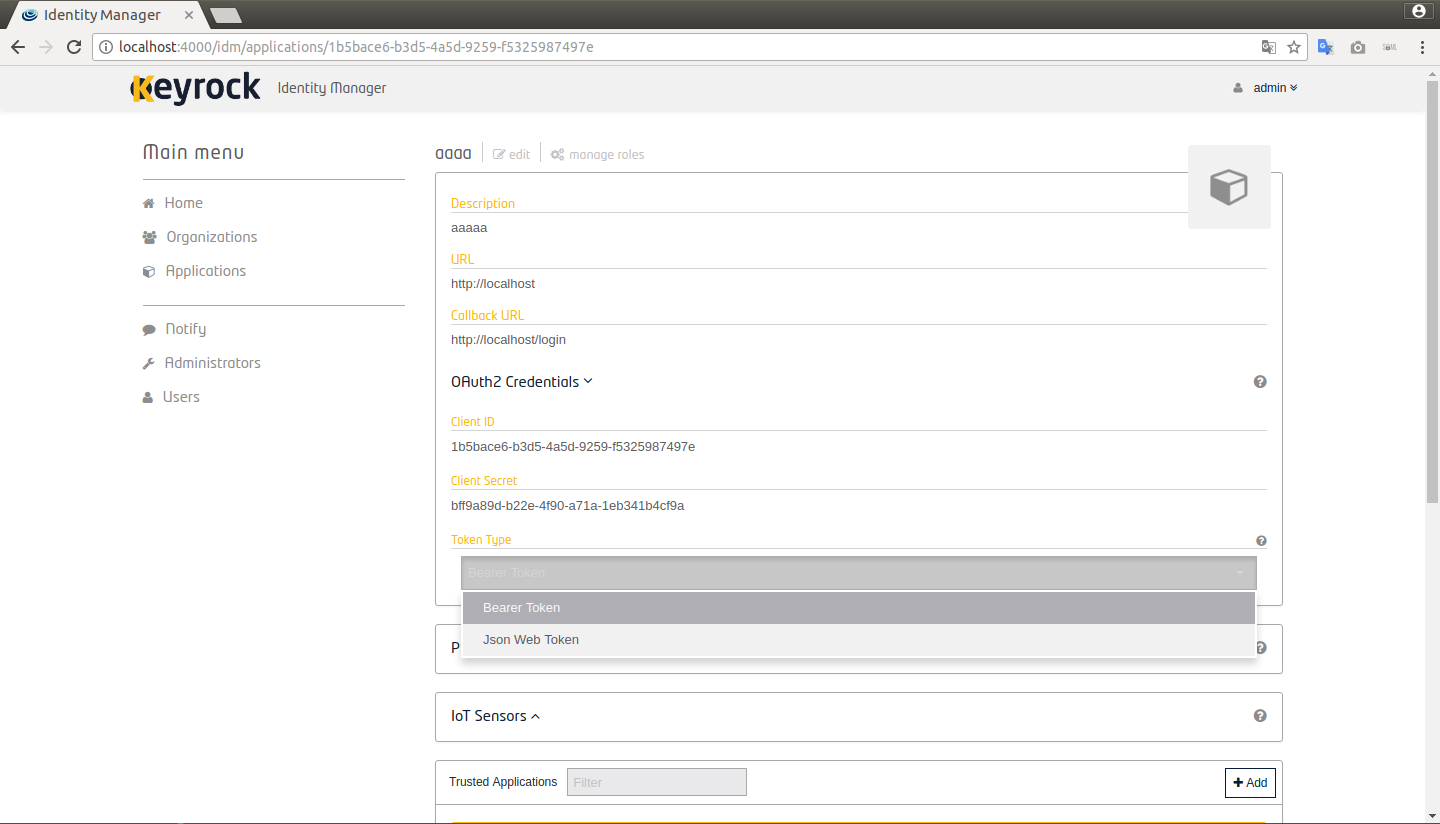
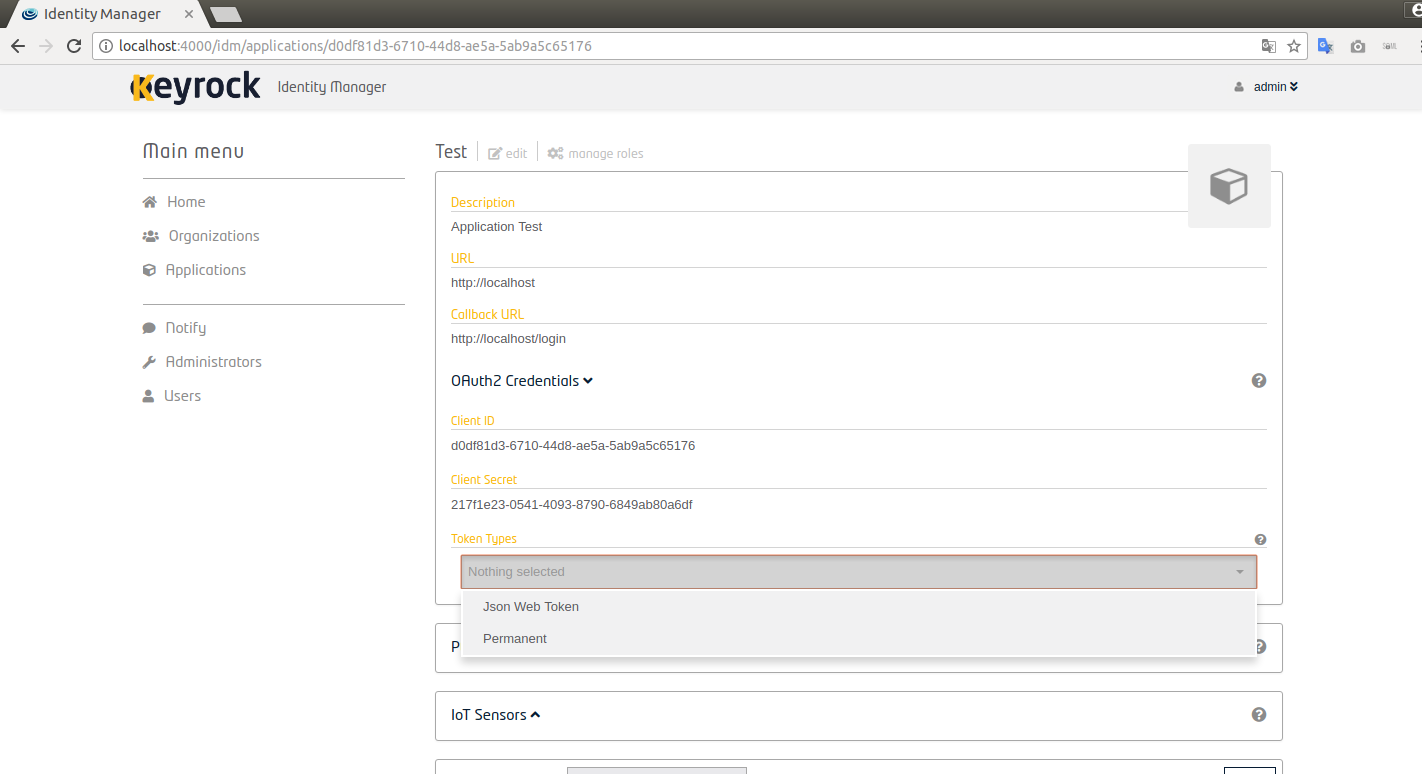
Docu Permanent and Revoke token

diff --git a/doc/api.md b/doc/api.md
@@ -1,3 +1,4 @@
+
 # API OVERVIEW
 
 + [Idm API](#def-apiIdm)
@@ -7,27 +8,31 @@
     - [OAuth2 Authentication](#def-oauth2Auth)
         - [Authorization Code Grant](#def-codeGrant)
             - [Authorization Request](#def-codeGrantAuthReq)
+            - [Authorization Request For Permanent Token](#def-codeGrantAuthPermReq)
             - [Authorization Response](#def-codeGrantAuthRes)
             - [Access Token Request](#def-codeGrantTokReq)
             - [Access Token Response](#def-codeGrantTokRes)
         - [Implicit Grant](#def-implicitGrant)
             - [Authorization Request](#def-impliGrantAuthReq)
+            - [Authorization Request For Permanent Token](#def-implicitGrantAuthPermReq)
             - [Access Token Response](#def-impliGrantTokRes)
         - [Resource Owner Password Credentials Grant](#def-passwordGrant)
             - [Access Token Request](#def-passGrantTokReq)
+            - [Permanent Access Token Request](#def-passGrantTokPermReq)
             - [Access Token Response](#def-passGrantTokRes)
         - [Client Credentials Grant](#def-credentialsGrant)
             - [Access Token Request](#def-credGrantTokReq)
+            - [Permanent Access Token Request](#def-credGrantTokPermReq) 
             - [Access Token Response](#def-credGrantTokRes)
         - [Refresh Token Grant](#def-refreshToken)
             - [Access Token Request](#def-refreseGrantTokReq)
+            - [Permanent Token Request](#def-refreseGrantTokPermReq)
             - [Access Token Response](#def-refreshGrantTokRes)
         - [Validate Access Tokens](#def-validate-tokens)
             - [Get user information and roles](#def-getUserInfo)
             - [Validate authorization](#def-validate-auth)
-        - [Select OAuth Access Token](#def-select-token)
-            - [Get user information and roles](#def-getUserInfo)
-            - [Validate authorization](#def-validate-auth)
+        - [Revoke Token](#def-revoke-token)
+        - [Select Token Type](#def-select-token)
             - [Access JWT Request](#def-JWTRequest)
             - [Access JWT Response](#def-JWTResponse)
 
@@ -115,6 +120,13 @@ match the `Callback URL` attribute provided to the IdM within the
 application registration. `state` is optional and for internal use of
 you application, if needed.
 
+<a name="def-codeGrantAuthPermReq"></a>
+#### Authorization Request For Permanent Token
+~~~
+GET /oauth2/authorize?response_type=code&client_id=1&state=xyz
+&redirect_uri=https%3A%2F%2Fclient%2Eexample%2Ecom%2Fcallback_url&scope=permanent HTTP/1.1
+Host: idm-portal
+~~~
 <a name="def-codeGrantAuthRes"></a>
 #### Authorization Response
 
@@ -176,6 +188,14 @@ The `redirect_uri` attribute must match the `Callback URL` attribute provided to
 
 `state` is optional and for internal use of you application, if needed.
 
+<a name="def-implicitGrantAuthPermReq"></a>
+#### Authorization Request For Permanent Token
+~~~
+GET /oauth2/authorize?response_type=token&client_id=1&state=xyz
+&redirect_uri=https%3A%2F%2Fclient%2Eexample%2Ecom%2Fcallback_url&scope=permanent HTTP/1.1
+Host: idm-portal
+~~~
+
 <a name="def-impliGrantTokRes"></a>
 #### Access Token Response
 ~~~
@@ -200,6 +220,18 @@ Content-Type: application/x-www-form-urlencoded
 
 grant_type=password&username=demo&password=123
 ~~~
+
+<a name="def-passGrantTokPermReq"></a>
+#### Permanent Token Request
+~~~
+POST /oauth2/token HTTP/1.1
+Host: idm-portal
+Authorization: Basic czZCaGRSa3F0MzpnWDFmQmF0M2JW
+Content-Type: application/x-www-form-urlencoded
+
+grant_type=password&username=demo&password=123&scope=permanent
+~~~
+
 <a name="def-passGrantTokRes"></a>
 #### Access Token Response
 See [Authorization Code Grant](#def-codeGrantTokRes)
@@ -219,6 +251,17 @@ Authorization: Basic czZCaGRSa3F0MzpnWDFmQmF0M2JW
 Content-Type: application/x-www-form-urlencoded
 
 grant_type=refresh_token&refresh_token=tGzv3JOkF0XG5Qx2TlKWIA
+~~~
+
+<a name="def-refreshGrantTokPermReq"></a>
+#### Permanent Token Request
+~~~
+POST /oauth2/token HTTP/1.1
+Host: idm-portal
+Authorization: Basic czZCaGRSa3F0MzpnWDFmQmF0M2JW
+Content-Type: application/x-www-form-urlencoded
+
+grant_type=refresh_token&refresh_token=tGzv3JOkF0XG5Qx2TlKWIA&scope=permanent
 ~~~
 
 <a name="def-refreshGrantTokRes"></a>
@@ -244,6 +287,17 @@ Content-Type: application/x-www-form-urlencoded
 grant_type=client_credentials
 ~~~
 
+<a name="def-credGrantTokPermReq"></a>
+#### Permanent Token Request
+~~~
+POST /oauth2/token HTTP/1.1
+Host: idm-portal
+Authorization: Basic czZCaGRSa3F0MzpnWDFmQmF0M2JW
+Content-Type: application/x-www-form-urlencoded
+
+grant_type=client_credentials&scope=permanent
+~~~
+
 <a name="def-credGrantTokRes"></a>
 #### Access Token Response
 
@@ -260,6 +314,21 @@ Once you have created an OAuth2.0 Access Token associated to a user, you can val
 > because of the nature of this grant. You can still use this endpoint
 > to validate the token, but the JSON (if the token is valid) will be
 > empty.
+
+<a name="def-revoke-token"></a>
+### Revoke Token
+In order to revoke a token, the following request should be send:
+~~~
+POST /oauth2/revoke HTTP/1.1
+Host: idm-portal
+Authorization: Basic czZCaGRSa3F0MzpnWDFmQmF0M2JW  
+Content-Type: application/x-www-form-urlencoded  
+
+token=2YotnFZFEjr1zCsicMWpAA&token_type_hint=access_token
+~~~
+Either Refresh or Access Token could be revoked. In case of Refresh Token, all Access Token associated to this will be revoked.
+
+token_type_hint is optional and can have the values “access_token" or “refresh_token” depending the type of token you are trying to revoke. These value helps Keyrock to revoke tokens quickly.
 
 <a name="def-getUserInfo"></a>
 ### Get user information and roles
@@ -351,7 +420,7 @@ Example response:
 <a name="#def-select-token"></a>
 ### Select Token Type
 
-Keyrock IdM allows you to choose the type of token to be generated when receiving an OAuth request. It can be choosen between Bearer or [JSON Web Tokens](https://tools.ietf.org/html/rfc7519). The token type could be selected in the interfaces as shown in the following figure:
+Keyrock IdM allows you to choose the type of token to be generated when receiving an OAuth request. By default, the application creates Bearer Tokens but it can be configured to generate [JSON Web Tokens](https://tools.ietf.org/html/rfc7519). It can be also configured to generate permanent tokens (Bearer or JWT) as described in previous sections. These permanent tokens would never expired. These token types options could be selected in the interfaces as shown in the following figure:
 
 <p align="center"><img src="https://raw.githubusercontent.com/ging/fiware-idm/master/doc/resources/UserGuide_SelectTokenType.png" width="740" align="center"></p>
 <p align="center">Figure 1: Select token type</p>
@@ -364,11 +433,43 @@ JWT is a safe way to represent a set information between two parties. A JWT is c
 
 <a name="def-JWTRequest"></a>
 #### Access Token Request with JWT
-It is not need to configure anything additionally in the oauth request. If JWT is configured in the application, a JWT could be generated through one of the previous explained grant types.
+
+The JWT generation could be done through scope option in the request. 
+- Authorization Code Grant and Implicit Grant should be included in url as a query parameter. For instance in an Authorization Code request:
+~~~
+GET /oauth2/authorize?response_type=code&client_id=1&state=xyz
+&redirect_uri=https%3A%2F%2Fclient%2Eexample%2Ecom%2Fcallback_url&scope=jwt HTTP/1.1
+Host: idm-portal
+~~~
+- In the rest of grants it should be included in the body. For instance in a Resource Owner Password Credentials request:
+~~~
+POST /oauth2/token HTTP/1.1
+Host: idm-portal
+Authorization: Basic czZCaGRSa3F0MzpnWDFmQmF0M2JW
+Content-Type: application/x-www-form-urlencoded
+
+grant_type=password&username=demo&password=123&scope=jwt
+~~~
+In order to generate a permanent JWT, it should be included both permanent and  in the scope of the request.
+
+- For Authorization Code Grant and Implicit Grant:
+~~~
+GET /oauth2/authorize?response_type=code&client_id=1&state=xyz
+&redirect_uri=https%3A%2F%2Fclient%2Eexample%2Ecom%2Fcallback_url&scope=jwt,permanent HTTP/1.1
+Host: idm-portal
+~~~
+- For the rest of grants:
+~~~
+POST /oauth2/token HTTP/1.1
+Host: idm-portal
+Authorization: Basic czZCaGRSa3F0MzpnWDFmQmF0M2JW
+Content-Type: application/x-www-form-urlencoded
+
+grant_type=password&username=demo&password=123&scope=jwt,permanent
+~~~
 
 <a name="def-JWTResponse"></a>
 #### Access Token Response
-
 ~~~
 HTTP/1.1 200 OK
 Content-Type: application/json;charset=UTF-8
@@ -381,3 +482,4 @@ Pragma: no-cache
     "refresh_token":"a581cb04b116e26b175002bc2e05551042fafbda"
 }
 ~~~
+If "permanent" option is included in the request, the refresh token would not be generate.
